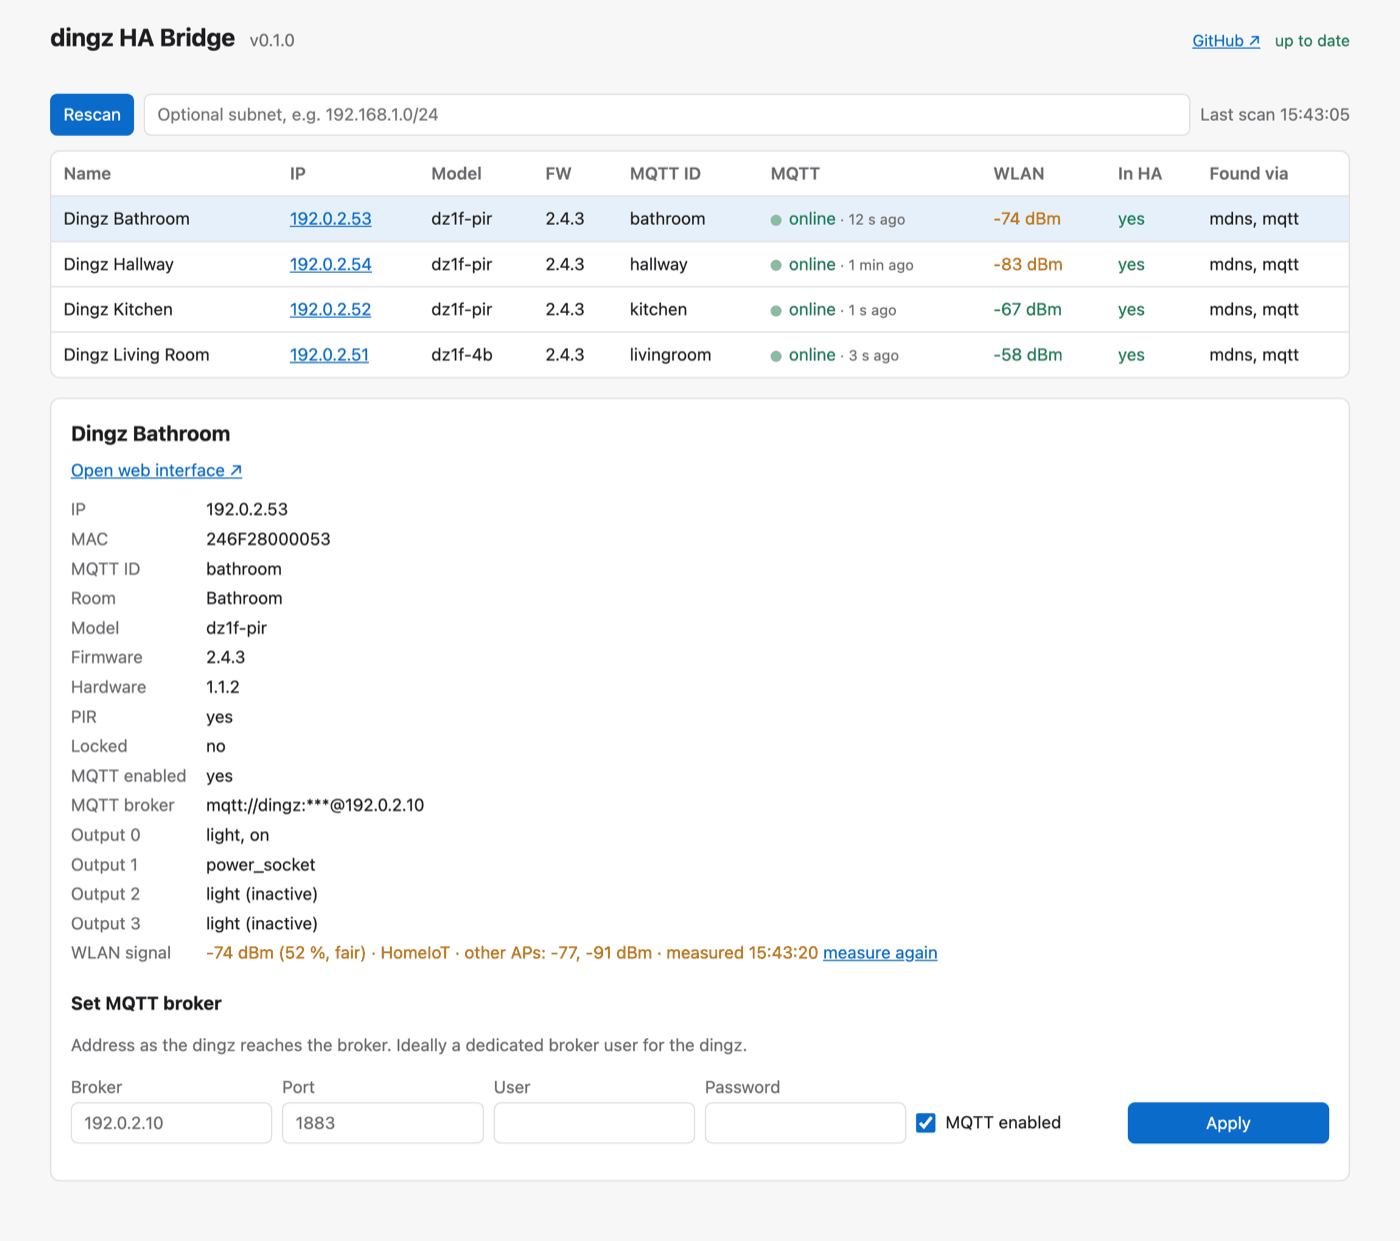
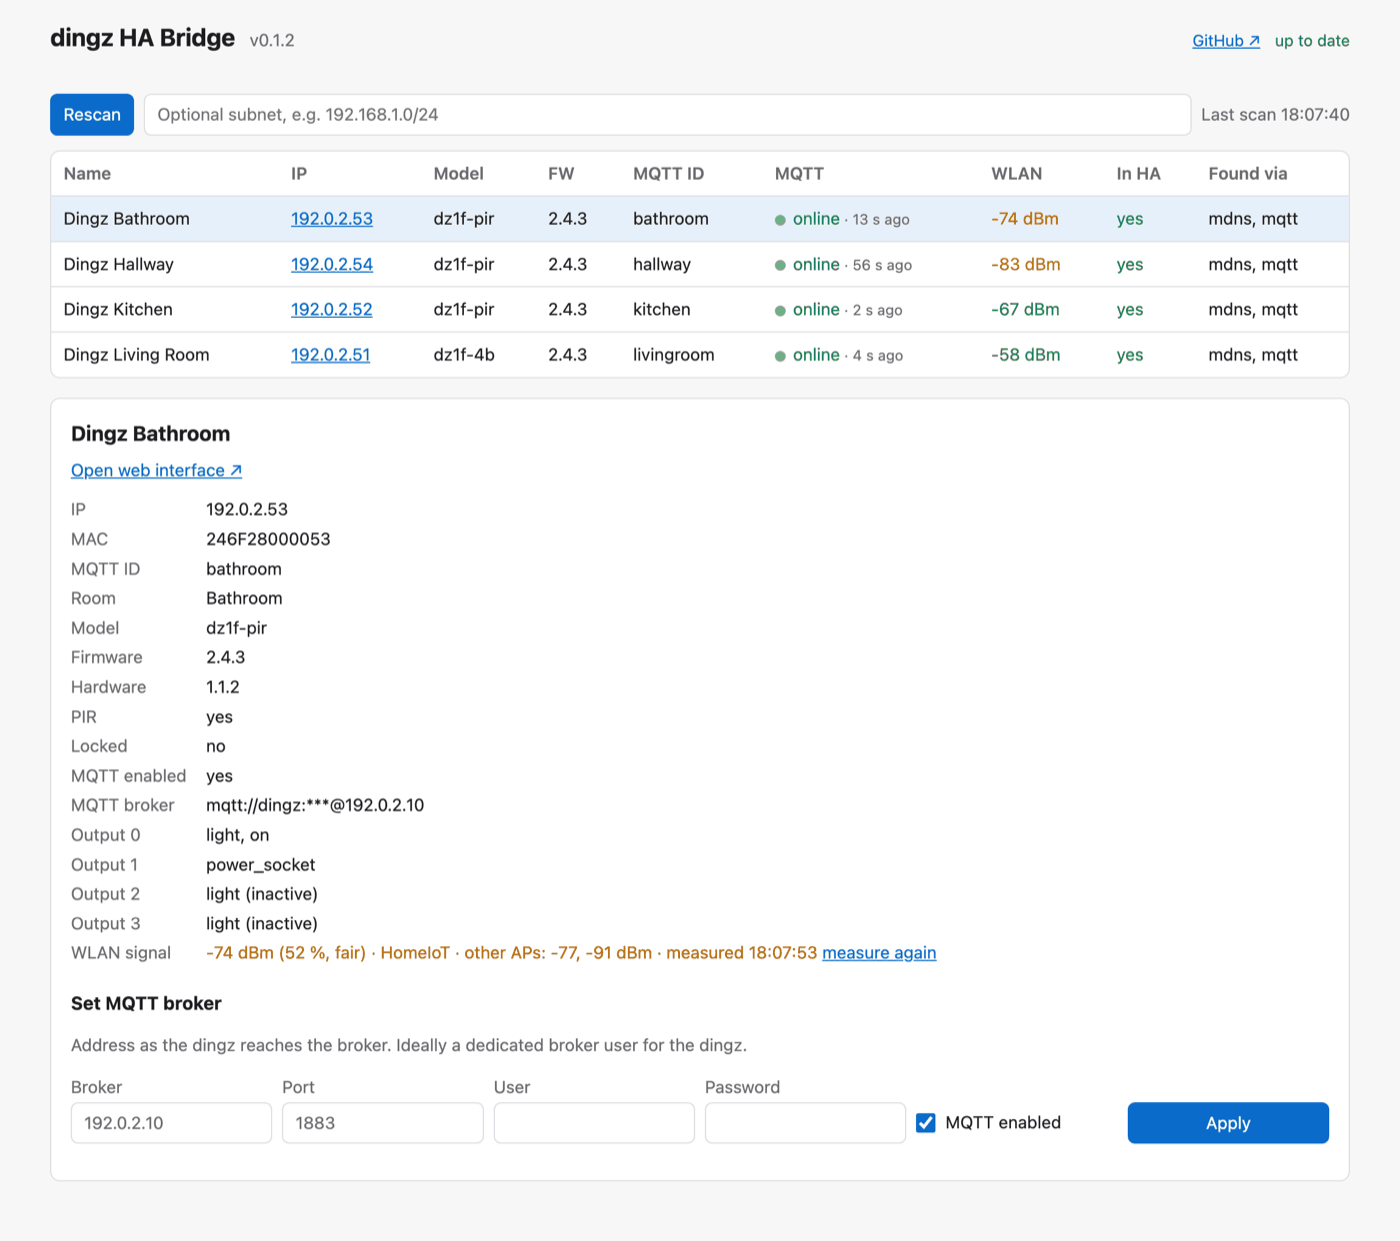
New UI

diff --git a/scripts/demo_ui.py b/scripts/demo_ui.py
@@ -109,7 +109,8 @@ async def fake_wifi(self):
 
 
 async def fake_check():
-    return updates.UpdateInfo(current="0.1.0", latest="0.1.0", checked_at=time.time())
+    from dingz_ha_bridge import __version__ as v
+    return updates.UpdateInfo(current=v, latest=v, checked_at=time.time())
 
 
 web.scan = fake_scan
